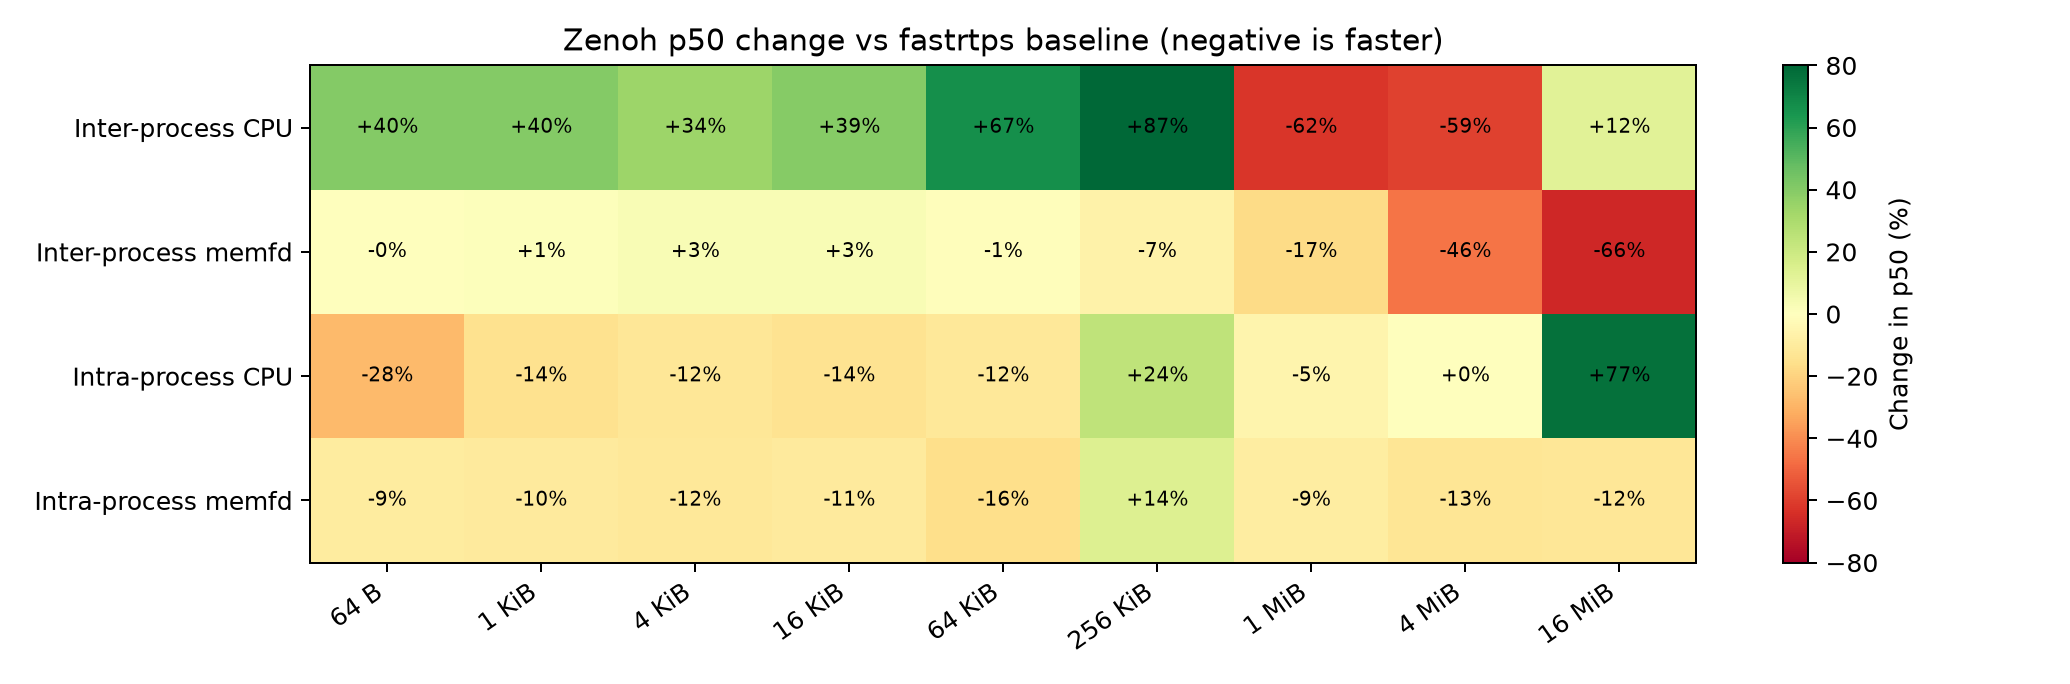
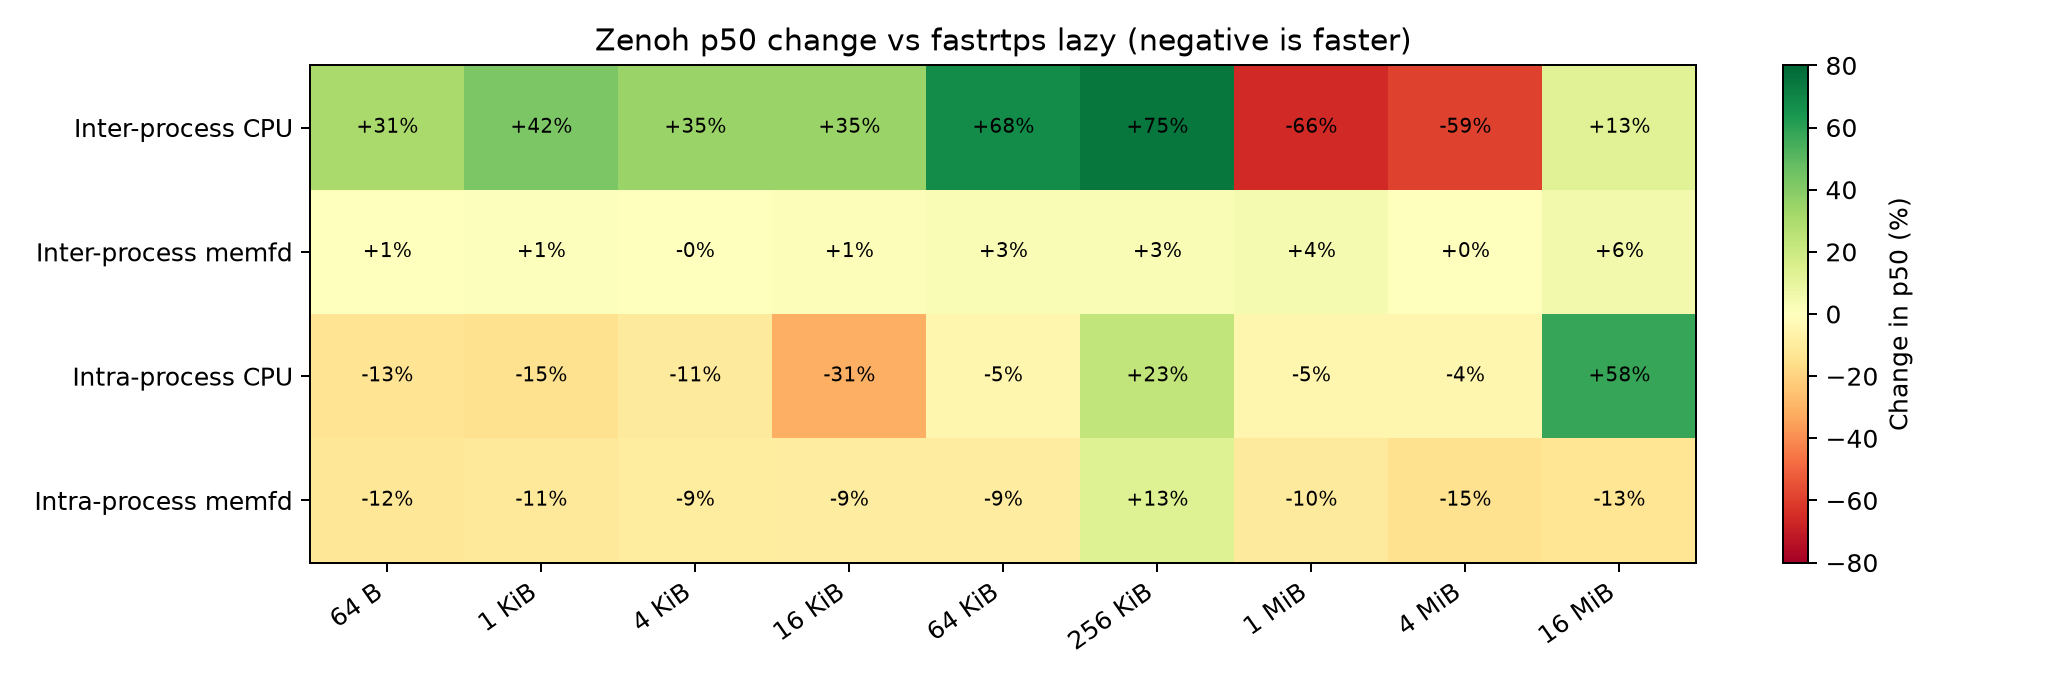
Compare zenoh with fastrtps lazy

diff --git a/tools/plot_zenoh_comparison.py b/tools/plot_zenoh_comparison.py
@@ -1,5 +1,5 @@
 #!/usr/bin/env python3
-"""Generate figures comparing the recorded fastrtps and zenoh benchmarks."""
+"""Generate figures comparing the recorded fastrtps lazy and zenoh benchmarks."""
 
 import argparse
 import csv
@@ -14,19 +14,13 @@ import matplotlib.pyplot as plt
 
 
 SIZES = (64, 1024, 4096, 16384, 65536, 262144, 1048576, 4194304, 16777216)
-VARIANTS = ("baseline", "unique_ptr", "lazy", "reserve")
+VARIANTS = ("lazy", "zenoh")
 COLORS = {
-    "baseline": "#4C566A",
-    "unique_ptr": "#5E81AC",
     "lazy": "#A3BE8C",
-    "reserve": "#D08770",
     "zenoh": "#BF616A",
 }
 LABELS = {
-    "baseline": "fastrtps baseline",
-    "unique_ptr": "fastrtps unique_ptr",
     "lazy": "fastrtps lazy",
-    "reserve": "fastrtps reserve",
     "zenoh": "zenoh",
 }
 PATHS = (
@@ -83,7 +77,7 @@ def setup_axis(axis):
 
 def plot_memfd_latency(data, output):
     figure, axis = plt.subplots(figsize=(10.5, 5.8))
-    for variant in (*VARIANTS, "zenoh"):
+    for variant in VARIANTS:
         values = [data[variant][("inter_process", "memfd", size)]["e2e"]["p50"] for size in SIZES]
         axis.plot(
             SIZES, values, marker="o", linewidth=2, markersize=4,
@@ -91,7 +85,7 @@ def plot_memfd_latency(data, output):
         )
     setup_axis(axis)
     axis.set_ylabel("End-to-end latency p50 (µs)")
-    axis.set_title("Inter-process memfd latency: zenoh vs fastrtps")
+    axis.set_title("Inter-process memfd latency: zenoh vs fastrtps lazy")
     axis.legend(ncol=2, frameon=False)
     figure.tight_layout()
     figure.savefig(output, dpi=180)
@@ -101,7 +95,7 @@ def plot_memfd_latency(data, output):
 def plot_backend_latency(data, output):
     figure, axes = plt.subplots(1, 2, figsize=(12, 5.2), sharey=False)
     for axis, backend, title in zip(axes, ("cpu", "memfd"), ("CPU backend", "memfd backend")):
-        for variant, linestyle in (("baseline", "-"), ("zenoh", "--")):
+        for variant, linestyle in (("lazy", "-"), ("zenoh", "--")):
             for percentile_name, alpha in (("p50", 1.0), ("p95", 0.48)):
                 values = [
                     data[variant][("inter_process", backend, size)]["e2e"][percentile_name]
@@ -117,7 +111,7 @@ def plot_backend_latency(data, output):
         axis.set_xlabel("Payload")
         axis.set_ylabel("End-to-end latency (µs)")
         axis.legend(frameon=False, fontsize=8)
-    figure.suptitle("Inter-process p50 (opaque) and p95 (faded): zenoh vs fastrtps baseline")
+    figure.suptitle("Inter-process p50 (opaque) and p95 (faded): zenoh vs fastrtps lazy")
     figure.tight_layout()
     figure.savefig(output, dpi=180)
     plt.close(figure)
@@ -129,7 +123,7 @@ def plot_one_mib_distributions(raw, output):
         (axes[0], "e2e", "End-to-end latency", 4000, 100),
         (axes[1], "publish", "Publisher publish() duration", 1200, 50),
     ):
-        for variant in ("baseline", "zenoh"):
+        for variant in VARIANTS:
             values = raw[variant][("inter_process", "memfd", 1048576)][metric]
             bins = range(0, x_limit + bin_width, bin_width)
             axis.hist(
@@ -158,7 +152,7 @@ def plot_heatmap(data, output):
         matrix.append([
             100.0 * (
                 data["zenoh"][(communication, backend, size)]["e2e"]["p50"] /
-                data["baseline"][(communication, backend, size)]["e2e"]["p50"] - 1.0
+                data["lazy"][(communication, backend, size)]["e2e"]["p50"] - 1.0
             )
             for size in SIZES
         ])
@@ -170,7 +164,7 @@ def plot_heatmap(data, output):
     for row_index, row in enumerate(matrix):
         for column_index, value in enumerate(row):
             axis.text(column_index, row_index, f"{value:+.0f}%", ha="center", va="center", fontsize=8)
-    axis.set_title("Zenoh p50 change vs fastrtps baseline (negative is faster)")
+    axis.set_title("Zenoh p50 change vs fastrtps lazy (negative is faster)")
     figure.colorbar(image, ax=axis, label="Change in p50 (%)")
     figure.tight_layout()
     figure.savefig(output, dpi=180)
@@ -186,10 +180,7 @@ def main():
 
     fastrtps_dir = args.fastrtps_dir
     zenoh_dir = args.data_dir
-    raw = {
-        variant: read_raw(fastrtps_dir / "raw" / f"{variant}.csv")
-        for variant in VARIANTS
-    }
+    raw = {"lazy": read_raw(fastrtps_dir / "raw" / "lazy.csv")}
     raw["zenoh"] = read_raw(zenoh_dir / "raw" / "zenoh.csv")
     data = {variant: summarize(values) for variant, values in raw.items()}
 

diff --git a/ZENOH_BENCHMARK_REPORT.md b/ZENOH_BENCHMARK_REPORT.md
@@ -1,40 +1,40 @@
-# Zenoh memfd rosidl buffer benchmark report
+# Zenoh vs fastrtps lazy memfd rosidl buffer benchmark report
 
 ## Executive summary
 
-This benchmark compares the unpatched `rmw_zenoh_cpp` path with the recorded
-`rmw_fastrtps_cpp` 16-way rerun under the same benchmark protocol. The zenoh
-run uses the memfd rosidl buffer backend and applies no fastrtps patches.
+This report compares the unmodified `rmw_zenoh_cpp` path with the
+`rmw_fastrtps_cpp` `lazy` implementation. The lazy implementation is the
+fastrtps behavior expected to be merged upstream, so it is the sole fastrtps
+reference for this comparison. No fastrtps patch was applied to the zenoh run.
 
 The main results are:
 
-- Inter-process memfd p50 is essentially tied at 64 B (949.7 µs for zenoh vs
-  951.4 µs for the fastrtps baseline) and is 66.5% lower at 16 MiB (768.0 µs
-  vs 2,289.5 µs).
-- Across all nine sizes, the geometric-mean inter-process memfd p50 for zenoh
-  is 19.1% lower than the fastrtps baseline.
-- Zenoh's inter-process CPU path is slower for small payloads (+34--40% p50
-  through 16 KiB), but is 62.3% lower at 1 MiB and 59.2% lower at 4 MiB.
-  At 16 MiB it is 12.4% higher than the fastrtps baseline, so the CPU result
-  is not a uniformly monotonic win.
-- At 1 MiB, zenoh reduces memfd publisher `publish()` p50 by 74.2% versus
-  fastrtps (173.5 µs vs 672.6 µs), while the end-to-end memfd p50 decreases by
-  17.2% (971.4 µs vs 1,172.9 µs).
-- The fastrtps `unique_ptr`, `lazy`, and `reserve` variants remain faster than
-  unpatched zenoh at 16 MiB memfd in this run (720.3--739.8 µs vs 768.0 µs),
-  although zenoh is still much faster than the unpatched fastrtps baseline.
+- Inter-process memfd p50 is close across all payloads: zenoh is within +0.6%
+  to +5.6% of fastrtps lazy, with a geometric-mean difference of only +1.9%.
+  At 16 MiB, zenoh measures 768.0 µs versus 727.6 µs for fastrtps lazy.
+- At 1 MiB, zenoh memfd end-to-end p50 is 971.4 µs versus 935.6 µs for
+  fastrtps lazy (+3.8%). The p95 values are 1,102.7 µs and 1,050.5 µs.
+- Zenoh's inter-process CPU path is slower at small payloads (+31.1% p50 at
+  64 B), but is 66.1% lower at 1 MiB and 59.1% lower at 4 MiB. At 16 MiB it
+  is 13.1% higher, so this CPU result is not uniformly better.
+- At 1 MiB, zenoh reduces memfd publisher `publish()` p50 by 58.8% versus
+  fastrtps lazy (173.4 µs versus 421.5 µs), but the end-to-end path is nearly
+  tied because it includes transport and subscriber-side work.
 
-The practical conclusion is that zenoh is a strong transport choice for the
-memfd backend at larger payloads, especially compared with unpatched
-fastrtps. The patched fastrtps SHM path still has the lowest measured 16 MiB
-memfd p50 in this dataset.
+The practical conclusion is that zenoh and the expected upstream fastrtps
+lazy implementation provide very similar inter-process memfd end-to-end
+latency. Zenoh has a distinct CPU-path profile: higher small-message overhead,
+but much lower CPU-path latency at 1--4 MiB.
+
+![Inter-process memfd latency across all sizes](figures/zenoh-comparison/inter-process-memfd-latency.png)
 
 ## Measurement design
 
-The zenoh matrix contains one unpatched variant:
+The zenoh matrix contains one implementation:
 
 - RMW: `rmw_zenoh_cpp`
 - Zenoh router: local `rmw_zenohd`, default configuration
+- Fastrtps reference: `lazy` raw data from the existing 16-way rerun
 - Payloads: 64 B, 1 KiB, 4 KiB, 16 KiB, 64 KiB, 256 KiB, 1 MiB, 4 MiB,
   and 16 MiB
 - Communication: `inter_process` and `intra_process_va`
@@ -45,13 +45,11 @@ The zenoh matrix contains one unpatched variant:
 - Affinity: publisher CPU 8, subscriber CPU 9, intra-process CPU 8
 - Discovery wait: 3 seconds before each inter-process publisher
 
-This is the same protocol used by the fastrtps 16-way rerun:
-4 variants × 9 sizes × 2 communication modes × 2 backends × 5 repeats.
-The fastrtps comparison data are the existing `baseline`, `unique_ptr`,
-`lazy`, and `reserve` raw CSVs. The zenoh run generated 180 summary rows and
-3,600 measured raw samples. Every case received all 30 messages, collected 20
-measured samples, and every intra-process case reported 30/30 virtual-address
-matches.
+The fastrtps lazy and zenoh measurements use the same protocol: 9 sizes × 2
+communication modes × 2 backends × 5 repeats. The zenoh run generated 180
+summary rows and 3,600 measured raw samples. Every case received all 30
+messages, collected 20 measured samples, and every intra-process case reported
+30/30 virtual-address matches.
 
 The benchmark records two timings:
 
@@ -67,66 +65,66 @@ repeats × 20 measured messages) per case.
 
 Values are microseconds, shown as `p50 / p95`.
 
-| Payload | fastrtps baseline | fastrtps unique_ptr | fastrtps lazy | fastrtps reserve | zenoh |
-|---:|---:|---:|---:|---:|---:|
-| 64 B | 951.4 / 1,091.2 | 933.4 / 1,069.6 | 944.0 / 1,073.8 | 966.0 / 1,067.9 | 949.7 / 1,077.0 |
-| 1 KiB | 942.3 / 1,060.1 | 947.7 / 1,069.2 | 942.1 / 1,059.1 | 891.5 / 1,059.7 | 951.7 / 1,127.9 |
-| 4 KiB | 927.2 / 1,045.0 | 973.4 / 1,066.2 | 956.8 / 1,071.7 | 908.5 / 1,046.0 | 953.6 / 1,070.5 |
-| 16 KiB | 921.5 / 1,057.8 | 937.4 / 1,057.2 | 936.0 / 1,044.9 | 937.8 / 1,056.0 | 948.7 / 1,060.0 |
-| 64 KiB | 958.8 / 1,107.0 | 918.4 / 1,040.9 | 925.1 / 1,091.9 | 895.9 / 1,053.1 | 950.7 / 1,132.9 |
-| 256 KiB | 1,033.0 / 1,128.8 | 937.6 / 1,046.8 | 937.4 / 1,054.9 | 870.7 / 1,030.6 | 962.2 / 1,071.4 |
-| 1 MiB | 1,172.9 / 1,298.2 | 943.2 / 1,057.1 | 935.6 / 1,050.5 | 923.7 / 1,056.9 | 971.4 / 1,102.7 |
-| 4 MiB | 1,700.0 / 1,822.6 | 897.6 / 1,021.2 | 915.6 / 1,049.2 | 895.1 / 989.8 | 917.1 / 1,057.0 |
-| 16 MiB | 2,289.5 / 2,718.5 | 739.8 / 816.6 | 727.6 / 805.7 | 720.3 / 806.3 | 768.0 / 860.5 |
-
-The figure below makes the main result visible: the unpatched fastrtps curve
-grows with payload size, while zenoh stays close to the patched fastrtps
-curves at 4--16 MiB.
+| Payload | fastrtps lazy | zenoh | Zenoh p50 change |
+|---:|---:|---:|---:|
+| 64 B | 944.0 / 1,073.8 | 949.7 / 1,077.0 | +0.6% |
+| 1 KiB | 942.1 / 1,059.1 | 951.7 / 1,127.9 | +1.0% |
+| 4 KiB | 956.8 / 1,071.7 | 953.6 / 1,070.5 | -0.3% |
+| 16 KiB | 936.0 / 1,044.9 | 948.7 / 1,060.0 | +1.4% |
+| 64 KiB | 925.1 / 1,091.9 | 950.7 / 1,132.9 | +2.8% |
+| 256 KiB | 937.4 / 1,054.9 | 962.2 / 1,071.4 | +2.6% |
+| 1 MiB | 935.6 / 1,050.5 | 971.4 / 1,102.7 | +3.8% |
+| 4 MiB | 915.6 / 1,049.2 | 917.1 / 1,057.0 | +0.2% |
+| 16 MiB | 727.6 / 805.7 | 768.0 / 860.5 | +5.6% |
 
 ![Inter-process memfd p50 comparison](figures/zenoh-comparison/inter-process-memfd-latency.png)
+
+The memfd curves are close at every size. The largest measured difference is
+at 16 MiB, where zenoh is 40.4 µs slower at p50; this is small compared with
+the multi-millisecond variation seen in the CPU path.
 
 ## CPU and memfd path comparison
 
 The paired figure shows p50 as opaque lines and p95 as faded lines for zenoh
-and the fastrtps baseline.
+and fastrtps lazy.
 
 ![Inter-process CPU and memfd p50/p95 comparison](figures/zenoh-comparison/inter-process-backend-latency.png)
 
 At selected payload sizes, the inter-process CPU and memfd results are:
 
-| Payload / backend | fastrtps baseline p50 / p95 (µs) | zenoh p50 / p95 (µs) | Zenoh p50 change |
+| Payload / backend | fastrtps lazy p50 / p95 (µs) | zenoh p50 / p95 (µs) | Zenoh p50 change |
 |---|---:|---:|---:|
-| 64 B CPU | 636.3 / 726.9 | 891.4 / 1,072.3 | +40.1% |
-| 64 B memfd | 951.4 / 1,091.2 | 949.7 / 1,077.0 | -0.2% |
-| 1 MiB CPU | 11,700.0 / 13,774.4 | 4,412.8 / 4,877.5 | -62.3% |
-| 1 MiB memfd | 1,172.9 / 1,298.2 | 971.4 / 1,102.7 | -17.2% |
-| 4 MiB CPU | 15,407.8 / 16,025.3 | 6,280.9 / 10,524.6 | -59.2% |
-| 4 MiB memfd | 1,700.0 / 1,822.6 | 917.1 / 1,057.0 | -46.1% |
-| 16 MiB CPU | 14,879.5 / 16,019.0 | 16,721.3 / 22,369.4 | +12.4% |
-| 16 MiB memfd | 2,289.5 / 2,718.5 | 768.0 / 860.5 | -66.5% |
+| 64 B CPU | 680.1 / 754.4 | 891.4 / 1,072.3 | +31.1% |
+| 64 B memfd | 944.0 / 1,073.8 | 949.7 / 1,077.0 | +0.6% |
+| 1 MiB CPU | 13,005.8 / 13,638.0 | 4,412.8 / 4,877.5 | -66.1% |
+| 1 MiB memfd | 935.6 / 1,050.5 | 971.4 / 1,102.7 | +3.8% |
+| 4 MiB CPU | 15,374.4 / 16,209.4 | 6,280.9 / 10,524.6 | -59.1% |
+| 4 MiB memfd | 915.6 / 1,049.2 | 917.1 / 1,057.0 | +0.2% |
+| 16 MiB CPU | 14,786.7 / 15,270.8 | 16,721.3 / 22,369.4 | +13.1% |
+| 16 MiB memfd | 727.6 / 805.7 | 768.0 / 860.5 | +5.6% |
 
-The geometric-mean zenoh/fastrtps-baseline p50 ratios across all nine sizes are
-1.079× for inter-process CPU (+7.9%), 0.809× for inter-process memfd
-(-19.1%), 0.983× for intra-process CPU (-1.7%), and 0.910× for intra-process
-memfd (-9.0%).
+The geometric-mean zenoh/fastrtps-lazy p50 ratios across all nine sizes are
+1.050× for inter-process CPU (+5.0%), 1.019× for inter-process memfd (+1.9%),
+0.971× for intra-process CPU (-2.9%), and 0.914× for intra-process memfd
+(-8.6%).
 
 ![Zenoh p50 change across all paths](figures/zenoh-comparison/zenoh-vs-fastrtps-heatmap.png)
 
 ## Publisher-side timing at 1 MiB
 
-| Backend / metric | fastrtps baseline p50 / p95 (µs) | zenoh p50 / p95 (µs) | Zenoh p50 change |
+| Backend / metric | fastrtps lazy p50 / p95 (µs) | zenoh p50 / p95 (µs) | Zenoh p50 change |
 |---|---:|---:|---:|
-| CPU `publish()` | 1,589.3 / 1,801.1 | 3,094.9 / 3,414.9 | +94.7% |
-| memfd `publish()` | 672.6 / 754.7 | 173.5 / 200.7 | -74.2% |
-| CPU end-to-end | 11,700.0 / 13,774.4 | 4,412.8 / 4,877.5 | -62.3% |
-| memfd end-to-end | 1,172.9 / 1,298.2 | 971.4 / 1,102.7 | -17.2% |
+| CPU `publish()` | 1,499.0 / 1,731.8 | 3,094.9 / 3,414.9 | +106.5% |
+| memfd `publish()` | 421.5 / 474.4 | 173.4 / 200.7 | -58.8% |
+| CPU end-to-end | 13,005.8 / 13,638.0 | 4,412.8 / 4,877.5 | -66.1% |
+| memfd end-to-end | 935.6 / 1,050.5 | 971.4 / 1,102.7 | +3.8% |
 
 ![1 MiB memfd raw distributions](figures/zenoh-comparison/1m-memfd-distributions.png)
 
 The raw distributions show that zenoh's memfd publisher timing is shifted
-substantially left of fastrtps. The end-to-end distributions are closer,
-because they also include discovery-independent scheduling, queueing, and
-subscriber-side work.
+substantially left of fastrtps lazy. The end-to-end distributions are closer,
+because they also include transport scheduling, queueing, and subscriber-side
+work.
 
 ## Reproduction
 
@@ -140,7 +138,7 @@ colcon build --packages-select memfd_buffer_backend_benchmark \
 source install/setup.bash
 ```
 
-Start a local router and run the same full zenoh matrix:
+Start a local router and run the zenoh matrix:
 
 ```bash
 source ~/ros2_lyrical/install/setup.bash
@@ -158,7 +156,8 @@ python3 src/memfd_buffer_backend_benchmark/memfd_buffer_backend_benchmark/script
   --raw-output src/memfd_buffer_backend_benchmark/benchmark-results-zenoh/raw/zenoh.csv
 ```
 
-Generate the comparison figures with the workspace virtual environment:
+Generate the lazy-only comparison figures with the workspace virtual
+environment:
 
 ```bash
 source .venv/bin/activate
@@ -171,11 +170,11 @@ python3 tools/plot_zenoh_comparison.py \
 
 ## Limitations
 
-The zenoh and fastrtps datasets were collected as separate benchmark runs,
-not simultaneously. They use the same host, CPU affinities, benchmark binary
-and matrix parameters, but normal run-to-run scheduling and system noise can
-remain. The result therefore supports a measured comparison under controlled
-conditions, not a hardware-independent transport ranking.
+The lazy fastrtps and zenoh datasets were collected as separate benchmark
+runs, not simultaneously. They use the same host, CPU affinities, benchmark
+binary and matrix parameters, but normal run-to-run scheduling and system
+noise can remain. The result therefore supports a measured comparison under
+controlled conditions, not a hardware-independent transport ranking.
 
 The local router is part of the zenoh inter-process path. Its presence and
 default configuration are intentional and should be kept for reproduction.
@@ -192,5 +191,5 @@ from enabling Zenoh's own transport-level shared-memory optimization.
 
 - [zenoh summary CSV](benchmark-results-zenoh/zenoh.csv)
 - [zenoh raw CSV](benchmark-results-zenoh/raw/zenoh.csv)
-- [fastrtps baseline raw CSV](benchmark-results-16way-rerun/raw/baseline.csv)
+- [fastrtps lazy raw CSV](benchmark-results-16way-rerun/raw/lazy.csv)
 - [comparison plotting script](tools/plot_zenoh_comparison.py)

diff --git a/README.md b/README.md
@@ -58,7 +58,7 @@ python3 src/memfd_buffer_backend_benchmark/memfd_buffer_backend_benchmark/script
 
 No `rmw_fastrtps` patches are applied for the zenoh run. See
 [`ZENOH_BENCHMARK_REPORT.md`](ZENOH_BENCHMARK_REPORT.md) for the recorded
-full-matrix comparison and figures.
+lazy-only comparison and figures.
 
 Run the complete 16-way matrix:
 
